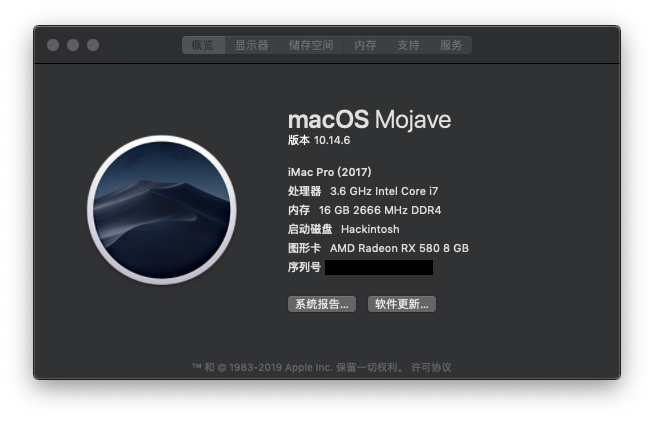
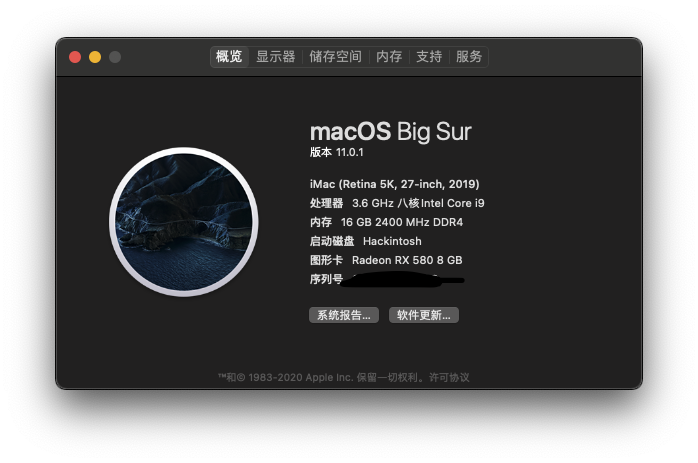
更新简介

diff --git a/README.md b/README.md
@@ -15,7 +15,7 @@
 
 ## 截图
 ![预览图](./screenshot/1.png)
-![预览图](./screenshot/2.png)
+
 
 ## 系统安装版本
 macOS Big Sur 11.0.1
@@ -32,5 +32,7 @@ macOS Big Sur 11.0.1
 - USB正常
 - 硬解正常
 
+## 已知问题
+  iMessage 有点问题,到时候在弄下
 
 ## 其他
